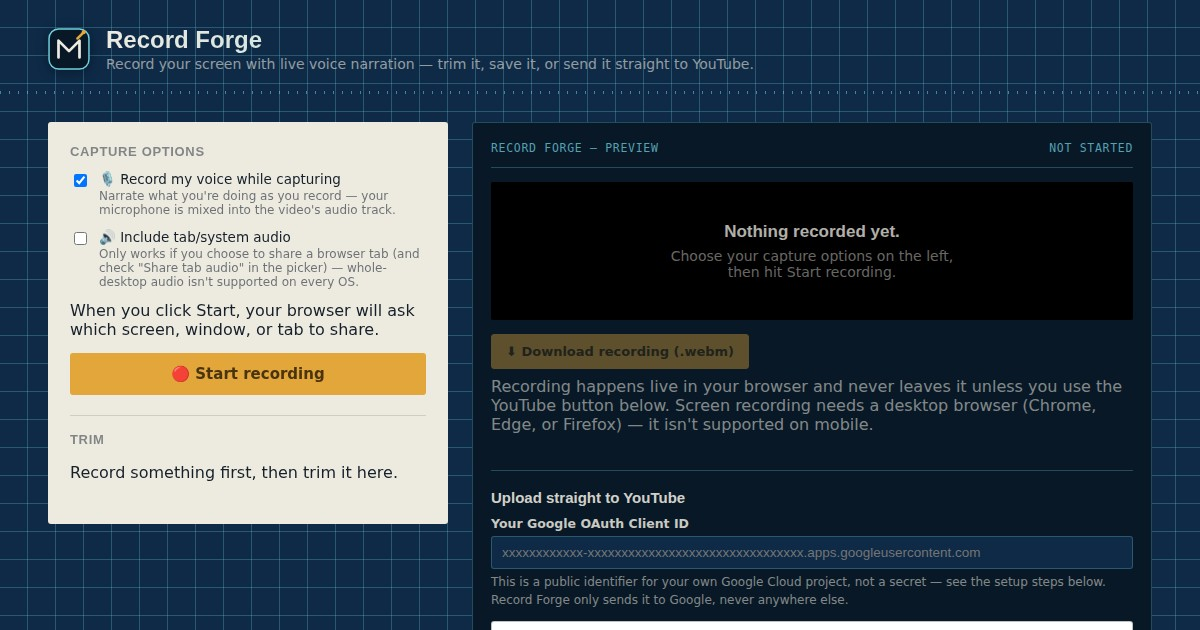
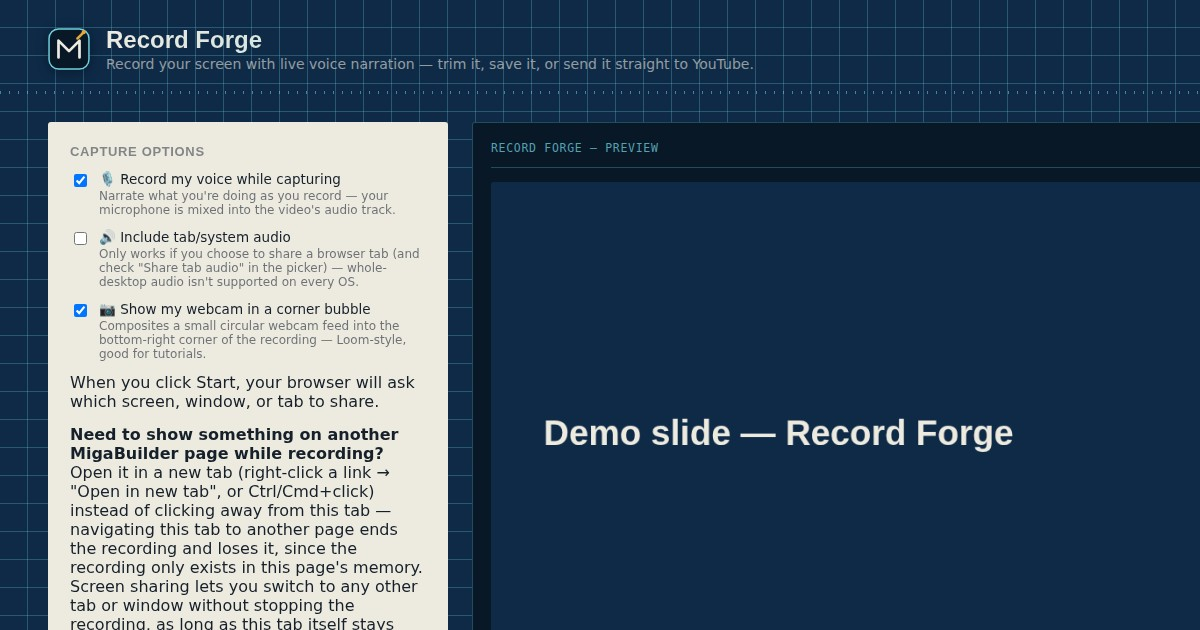
Add webcam facecam bubble and quick mic-mute to Record Forge
Record Forge had no way to add a webcam picture-in-picture bubble (the
single most expected feature for Loom-style tutorial recordings), and
muting the microphone mid-recording meant pausing the entire capture rather
than just silencing the narration for a moment.

- Added a "Show my webcam in a corner bubble" option: when enabled, the
  screen share and webcam feed are both drawn onto a hidden canvas every
  frame (screen as the base layer, webcam clipped into a circular bubble in
  the bottom-right corner with a border), and that composited canvas's own
  captureStream() becomes the actual recorded video track — audio mixing is
  unchanged. The live preview shows the exact same composited feed you're
  recording.
- Added a "Mute mic" button next to Pause/Stop during an active recording
  that flips the microphone track's `.enabled` flag — silences the
  narration instantly without pausing the capture, then un-mutes the same
  way.

Tested with Playwright using a stubbed getDisplayMedia (a solid-color fake
"screen") alongside Chromium's real fake webcam capture device: verified by
reading actual canvas pixel data that the background matches the fake
screen's exact color while the bubble region shows distinctly different
content (the real fake-webcam pattern actually composited in, not just a
flag being set), and that stopping the recording produces a real,
non-trivial downloadable .webm file — proving the composited canvas track
[…]

diff --git a/record-forge.html b/record-forge.html
@@ -208,12 +208,19 @@
         <span class="opt-sub">Only works if you choose to share a browser tab (and check "Share tab audio" in the picker) — whole-desktop audio isn't supported on every OS.</span>
       </span>
     </label>
+    <label class="check-row">
+      <input type="checkbox" id="facecamCheckbox">
+      <span>📷 Show my webcam in a corner bubble
+        <span class="opt-sub">Composites a small circular webcam feed into the bottom-right corner of the recording — Loom-style, good for tutorials.</span>
+      </span>
+    </label>
     <p class="hint" style="margin: 0 0 14px;">When you click Start, your browser will ask which screen, window, or tab to share.</p>
     <p class="hint" style="margin: 0 0 14px;"><strong>Need to show something on another MigaBuilder page while recording?</strong> Open it in a new tab (right-click a link → "Open in new tab", or Ctrl/Cmd+click) instead of clicking away from this tab — navigating this tab to another page ends the recording and loses it, since the recording only exists in this page's memory. Screen sharing lets you switch to any other tab or window without stopping the recording, as long as this tab itself stays open.</p>
 
     <button type="button" class="draft-btn" id="startBtn">🔴 Start recording</button>
     <div class="btn-row" id="activeControls" style="display:none; margin-top:8px;">
       <button type="button" class="draft-btn secondary" id="pauseBtn">⏸ Pause</button>
+      <button type="button" class="draft-btn secondary" id="muteMicBtn" style="display:none;">🔇 Mute mic</button>
       <button type="button" class="draft-btn danger" id="stopBtn">⏹ Stop</button>
     </div>
     <div class="rec-status" id="recStatus" style="display:none;"><span class="rec-dot"></span><span id="recStatusText">00:00</span></div>
@@ -330,6 +337,9 @@
 
 <video id="trimSourceVideo" style="display:none;" playsinline></video>
 <canvas id="trimCanvas" style="display:none;"></canvas>
+<video id="displaySourceVideo" style="display:none;" playsinline muted></video>
+<video id="webcamSourceVideo" style="display:none;" playsinline muted></video>
+<canvas id="facecamCanvas" style="display:none;"></canvas>
 
 <script>
 (function () {
@@ -338,10 +348,16 @@
   // ---------- element refs ----------
   const micCheckbox = document.getElementById('micCheckbox');
   const sysAudioCheckbox = document.getElementById('sysAudioCheckbox');
+  const facecamCheckbox = document.getElementById('facecamCheckbox');
   const startBtn = document.getElementById('startBtn');
   const activeControls = document.getElementById('activeControls');
   const pauseBtn = document.getElementById('pauseBtn');
+  const muteMicBtn = document.getElementById('muteMicBtn');
   const stopBtn = document.getElementById('stopBtn');
+  const displaySourceVideo = document.getElementById('displaySourceVideo');
+  const webcamSourceVideo = document.getElementById('webcamSourceVideo');
+  const facecamCanvas = document.getElementById('facecamCanvas');
+  const facecamCtx = facecamCanvas.getContext('2d');
   const recStatus = document.getElementById('recStatus');
   const recStatusText = document.getElementById('recStatusText');
   const errorBox = document.getElementById('errorBox');
@@ -386,6 +402,9 @@
   // ---------- state ----------
   let displayStream = null;
   let micStream = null;
+  let webcamStream = null;
+  let facecamAnimId = null;
+  let micMuted = false;
   let mixedStream = null;
   let mediaRecorder = null;
   let recordedChunks = [];
@@ -439,6 +458,10 @@
   function stopMediaTracks() {
     if (displayStream) { displayStream.getTracks().forEach(t => t.stop()); displayStream = null; }
     if (micStream) { micStream.getTracks().forEach(t => t.stop()); micStream = null; }
+    if (webcamStream) { webcamStream.getTracks().forEach(t => t.stop()); webcamStream = null; }
+    if (facecamAnimId) { cancelAnimationFrame(facecamAnimId); facecamAnimId = null; }
+    displaySourceVideo.srcObject = null;
+    webcamSourceVideo.srcObject = null;
   }
 
   // Navigating this tab away — including to another MigaBuilder page — tears
@@ -483,6 +506,15 @@
       }
     }
 
+    if (facecamCheckbox.checked) {
+      try {
+        webcamStream = await navigator.mediaDevices.getUserMedia({ video: { width: 320, height: 240 } });
+      } catch (err) {
+        showError('Could not access your webcam (' + (err.message || err.name) + ') — recording without the facecam bubble.');
+        webcamStream = null;
+      }
+    }
+
     if (!sharedAudioCtx) sharedAudioCtx = new (window.AudioContext || window.webkitAudioContext)();
     const audioCtx = sharedAudioCtx;
     const dest = audioCtx.createMediaStreamDestination();
@@ -500,7 +532,45 @@
     }
 
     const videoTrack = displayStream.getVideoTracks()[0];
-    const combinedTracks = [videoTrack];
+    let finalVideoTrack = videoTrack;
+
+    if (webcamStream) {
+      const settings = videoTrack.getSettings();
+      const cw = settings.width || 1280, ch = settings.height || 720;
+      displaySourceVideo.srcObject = displayStream;
+      webcamSourceVideo.srcObject = webcamStream;
+      await Promise.all([
+        new Promise(function (resolve) { displaySourceVideo.onloadedmetadata = function () { displaySourceVideo.play().then(resolve).catch(resolve); }; }),
+        new Promise(function (resolve) { webcamSourceVideo.onloadedmetadata = function () { webcamSourceVideo.play().then(resolve).catch(resolve); }; })
+      ]);
+      facecamCanvas.width = cw;
+      facecamCanvas.height = ch;
+      const bubbleSize = Math.round(Math.min(cw, ch) * 0.22);
+      const margin = Math.round(bubbleSize * 0.12);
+      (function drawFacecamFrame() {
+        facecamCtx.drawImage(displaySourceVideo, 0, 0, cw, ch);
+        const bx = cw - bubbleSize - margin, by = ch - bubbleSize - margin;
+        facecamCtx.save();
+        facecamCtx.beginPath();
+        facecamCtx.arc(bx + bubbleSize / 2, by + bubbleSize / 2, bubbleSize / 2, 0, Math.PI * 2);
+        facecamCtx.closePath();
+        facecamCtx.clip();
+        const vw = webcamSourceVideo.videoWidth || 320, vh = webcamSourceVideo.videoHeight || 240;
+        const scale = Math.max(bubbleSize / vw, bubbleSize / vh);
+        const dw = vw * scale, dh = vh * scale;
+        facecamCtx.drawImage(webcamSourceVideo, bx + (bubbleSize - dw) / 2, by + (bubbleSize - dh) / 2, dw, dh);
+        facecamCtx.restore();
+        facecamCtx.beginPath();
+        facecamCtx.arc(bx + bubbleSize / 2, by + bubbleSize / 2, bubbleSize / 2, 0, Math.PI * 2);
+        facecamCtx.lineWidth = 3;
+        facecamCtx.strokeStyle = '#EDEAE0';
+        facecamCtx.stroke();
+        facecamAnimId = requestAnimationFrame(drawFacecamFrame);
+      })();
+      finalVideoTrack = facecamCanvas.captureStream(30).getVideoTracks()[0];
+    }
+
+    const combinedTracks = [finalVideoTrack];
     if (hasAudio) combinedTracks.push(...dest.stream.getAudioTracks());
     mixedStream = new MediaStream(combinedTracks);
 
@@ -540,7 +610,17 @@
     startBtn.style.display = 'none';
     activeControls.style.display = 'flex';
     pauseBtn.textContent = '⏸ Pause';
+    micMuted = false;
+    muteMicBtn.textContent = '🔇 Mute mic';
+    muteMicBtn.style.display = micStream ? 'inline-block' : 'none';
     titleBlockRight.textContent = 'RECORDING';
+  });
+
+  muteMicBtn.addEventListener('click', function () {
+    if (!micStream) return;
+    micMuted = !micMuted;
+    micStream.getAudioTracks().forEach(function (t) { t.enabled = !micMuted; });
+    muteMicBtn.textContent = micMuted ? '🔊 Unmute mic' : '🔇 Mute mic';
   });
 
   pauseBtn.addEventListener('click', function () {
@@ -567,6 +647,7 @@
     if (timerInterval) { clearInterval(timerInterval); timerInterval = null; }
     recStatus.style.display = 'none';
     activeControls.style.display = 'none';
+    muteMicBtn.style.display = 'none';
     startBtn.style.display = 'block';
     startBtn.textContent = '🔴 Start recording';
   }
